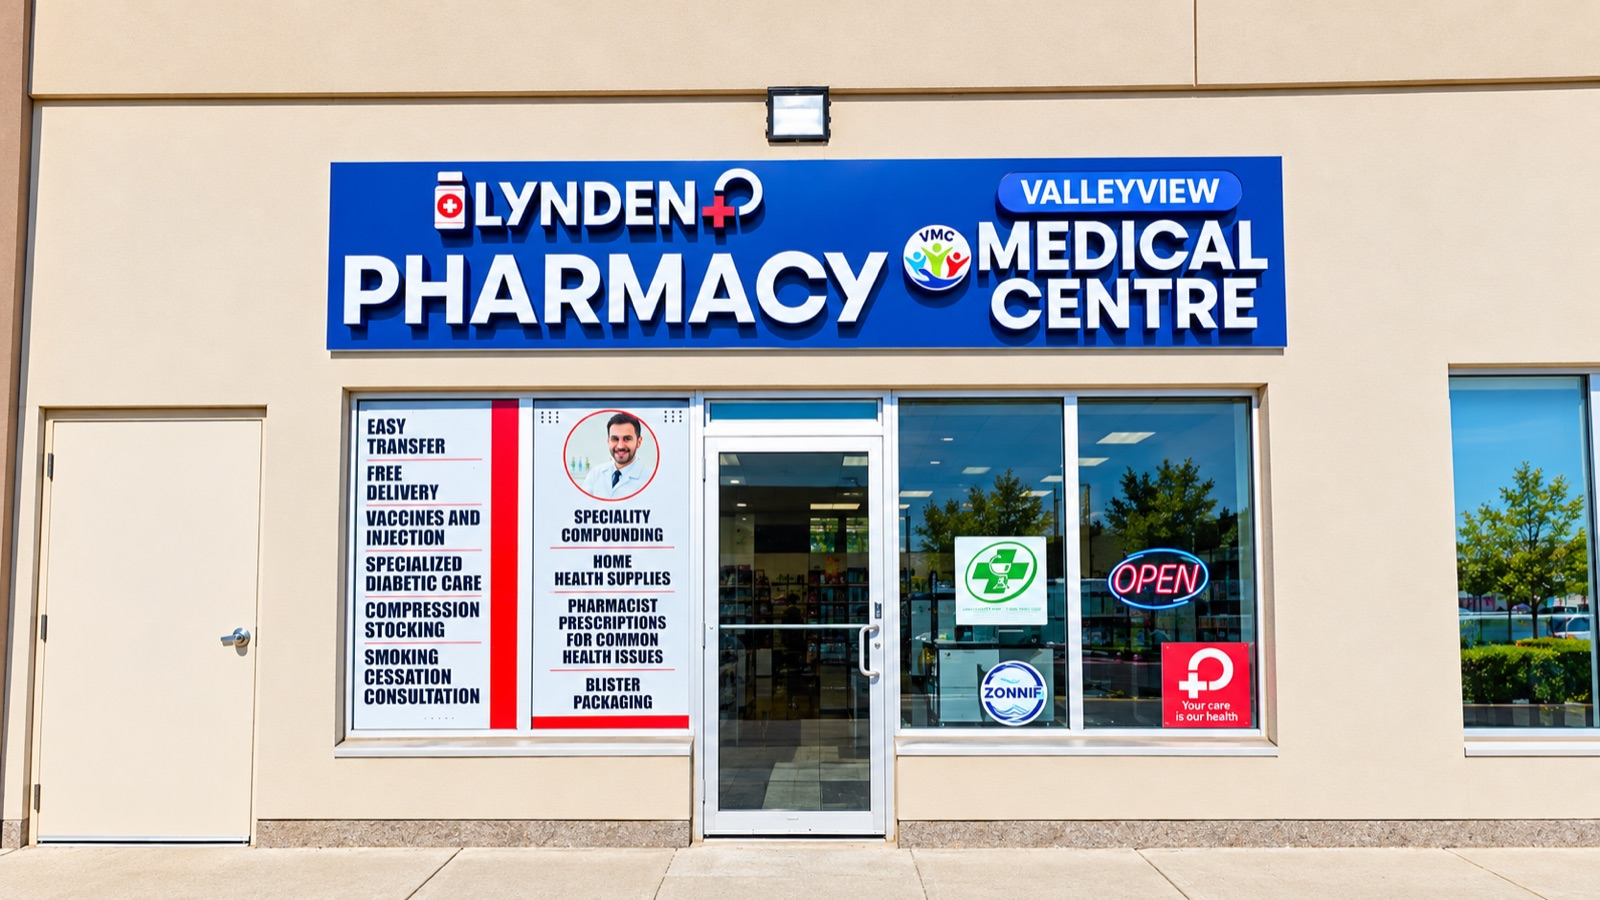
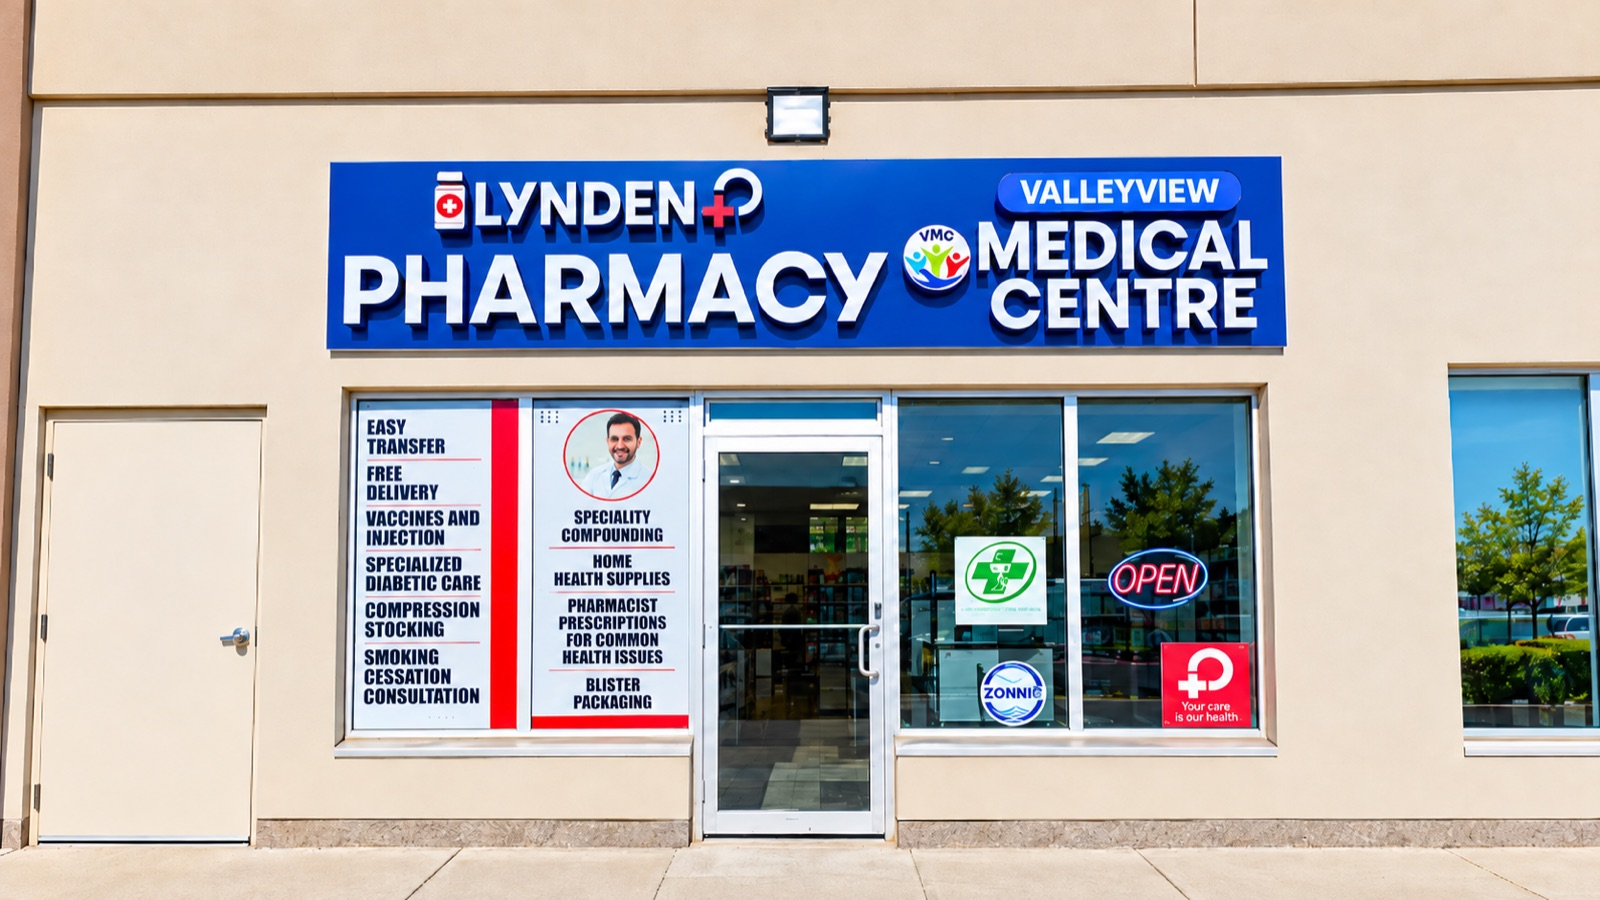
Show each clinic's exterior photo as its location photo and page hero
Interior photos stay in the clinic photos section. Updated Lynden Rd storefront image;
removed the older Courtice and Oshawa photos that are no longer used.

diff --git a/src/app/(marketing)/locations/[slug]/page.tsx b/src/app/(marketing)/locations/[slug]/page.tsx
@@ -63,6 +63,7 @@ export default async function LocationPage({ params }: LocationPageProps) {
   const isComingSoon = location.isComingSoon
   const hoursPublished = hasPublishedHours(location)
   const directionsUrl = getGoogleMapsDirectionsUrl(location)
+  const [exteriorPhoto, ...interiorPhotos] = location.photos ?? []
 
   return (
     <>
@@ -73,6 +74,8 @@ export default async function LocationPage({ params }: LocationPageProps) {
             ? "Opening details will be announced once confirmed."
             : "Find contact details, directions and online booking for your clinic. Call the clinic for appointment and walk-in availability."
         }
+        imageSrc={exteriorPhoto?.src}
+        imageAlt={exteriorPhoto?.alt}
       />
 
       {location.pharmacyName ? (
@@ -262,7 +265,7 @@ export default async function LocationPage({ params }: LocationPageProps) {
           </div>
         </div>
       </section>
-      {location.photos?.length ? (
+      {interiorPhotos.length ? (
         <section
           aria-labelledby="clinic-photos-heading"
           className="mx-auto max-w-7xl px-4 pb-16 sm:px-6 lg:px-8"
@@ -271,7 +274,7 @@ export default async function LocationPage({ params }: LocationPageProps) {
             Clinic photos
           </h2>
           <ul className="grid gap-6 sm:grid-cols-2 lg:grid-cols-3">
-            {location.photos.map((photo) => (
+            {interiorPhotos.map((photo) => (
               <li
                 key={photo.src}
                 className="relative aspect-[4/3] overflow-hidden rounded-lg bg-muted ring-1 ring-border"

diff --git a/src/config/clinic.ts b/src/config/clinic.ts
@@ -48,7 +48,7 @@ export interface ClinicLocation {
   heroImageAlt?: string;
   clinicPhoto?: string;
   clinicPhotoAlt?: string;
-  /** Real photos of this clinic, shown on its location page. */
+  /** Real photos of this clinic; the first is the exterior, shown at the top of its location page. */
   photos?: { src: string; alt: string }[];
   pharmacyName?: string;
   pharmacyUrl?: string;
